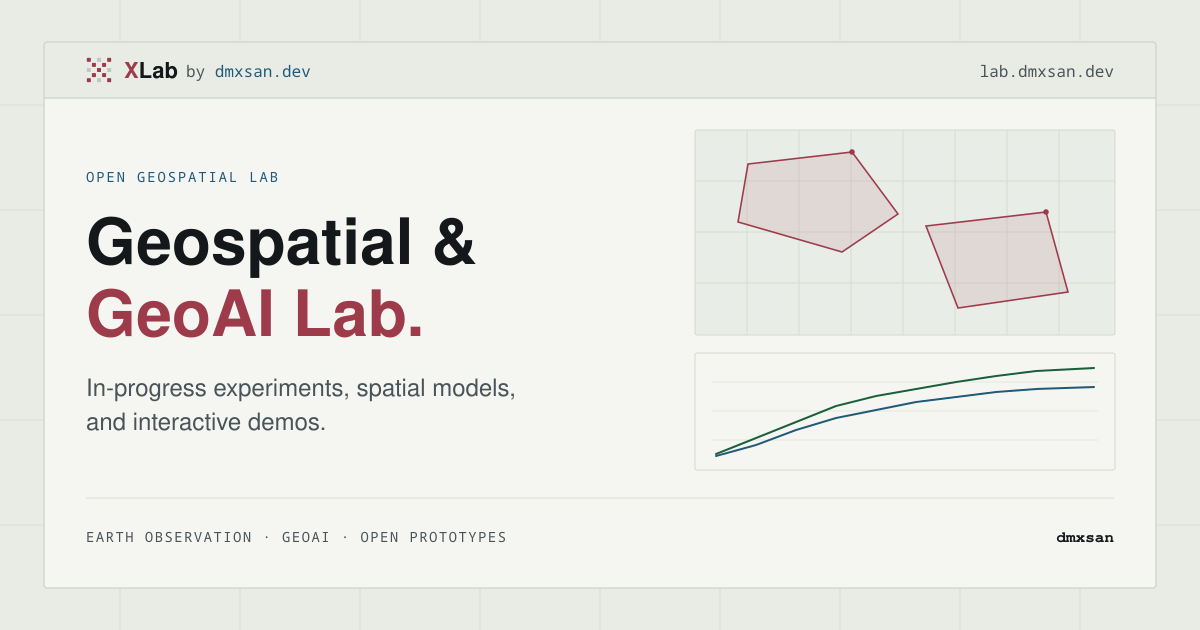
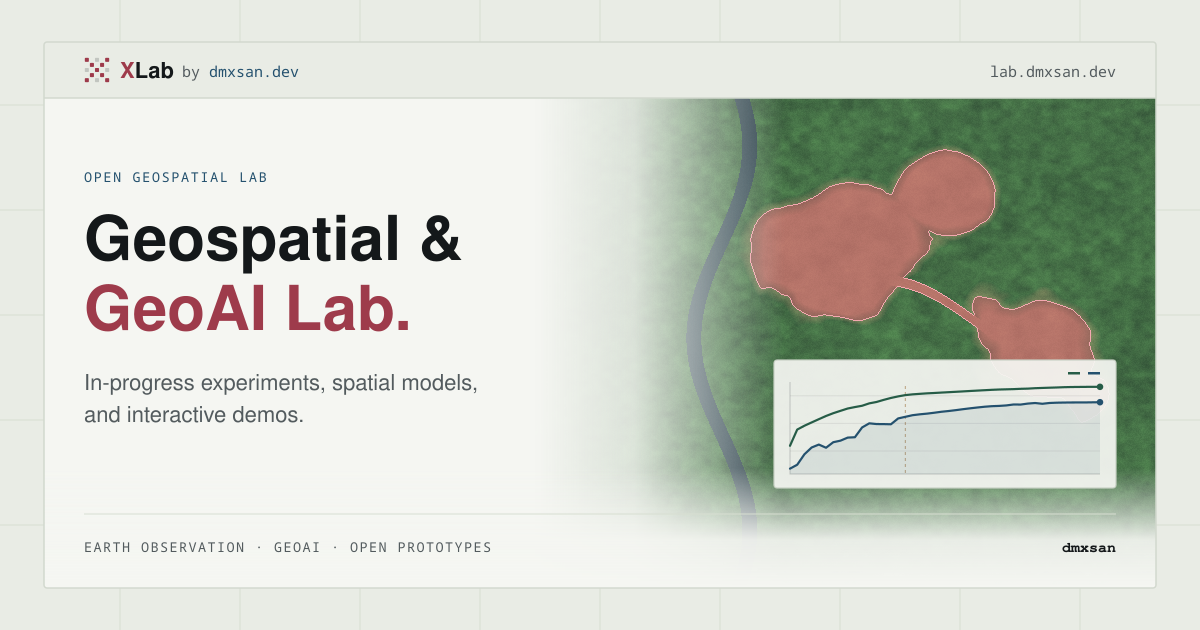
feat(og): update social card with satellite mask fade and quiet chart

diff --git a/index.html b/index.html
@@ -6,7 +6,7 @@
     <title>XLab | Geospatial &amp; GeoAI Lab</title>
     <meta
       name="description"
-      content="An open geospatial lab by dmxsan.dev for in-progress experiments, spatial models, and interactive demos."
+      content="An open geospatial lab hosting in-progress experiments, spatial models, and interactive demos."
     />
     <meta name="author" content="Dimas Maulana Ichsan" />
     <meta name="robots" content="index, follow, max-image-preview:large" />
@@ -19,10 +19,10 @@
     <meta property="og:site_name" content="XLab by dmxsan.dev" />
     <meta property="og:locale" content="en_US" />
     <meta property="og:type" content="website" />
-    <meta property="og:title" content="XLab | Geospatial &amp; GeoAI Lab" />
+    <meta property="og:title" content="Geospatial &amp; GeoAI Lab" />
     <meta
       property="og:description"
-      content="An open geospatial lab by dmxsan.dev for in-progress experiments, spatial models, and interactive demos."
+      content="An open geospatial lab hosting in-progress experiments, spatial models, and interactive demos."
     />
     <meta property="og:url" content="https://lab.dmxsan.dev/" />
     <meta property="og:image" content="https://lab.dmxsan.dev/assets/og-image.png" />
@@ -30,10 +30,10 @@
     <meta property="og:image:height" content="630" />
     <meta property="og:image:alt" content="XLab by dmxsan.dev, an open geospatial and GeoAI lab" />
     <meta name="twitter:card" content="summary_large_image" />
-    <meta name="twitter:title" content="XLab | Geospatial &amp; GeoAI Lab" />
+    <meta name="twitter:title" content="Geospatial &amp; GeoAI Lab" />
     <meta
       name="twitter:description"
-      content="An open geospatial lab by dmxsan.dev for in-progress experiments, spatial models, and interactive demos."
+      content="An open geospatial lab hosting in-progress experiments, spatial models, and interactive demos."
     />
     <meta name="twitter:image" content="https://lab.dmxsan.dev/assets/og-image.png" />
     <meta name="twitter:image:alt" content="XLab by dmxsan.dev, an open geospatial and GeoAI lab" />
@@ -55,7 +55,7 @@
             "name": "XLab by dmxsan.dev",
             "alternateName": "XLab",
             "url": "https://lab.dmxsan.dev/",
-            "description": "An open geospatial lab by dmxsan.dev for in-progress experiments, spatial models, and interactive demos.",
+            "description": "An open geospatial lab hosting in-progress experiments, spatial models, and interactive demos.",
             "inLanguage": "en-US",
             "publisher": { "@id": "https://dmxsan.dev/#person" },
             "isPartOf": {
@@ -68,7 +68,7 @@
             "@type": "CollectionPage",
             "@id": "https://lab.dmxsan.dev/#webpage",
             "name": "XLab | Geospatial & GeoAI Lab",
-            "description": "An open geospatial lab by dmxsan.dev for in-progress experiments, spatial models, and interactive demos.",
+            "description": "An open geospatial lab hosting in-progress experiments, spatial models, and interactive demos.",
             "url": "https://lab.dmxsan.dev/",
             "isPartOf": { "@id": "https://lab.dmxsan.dev/#website" },
             "author": { "@id": "https://dmxsan.dev/#person" },
